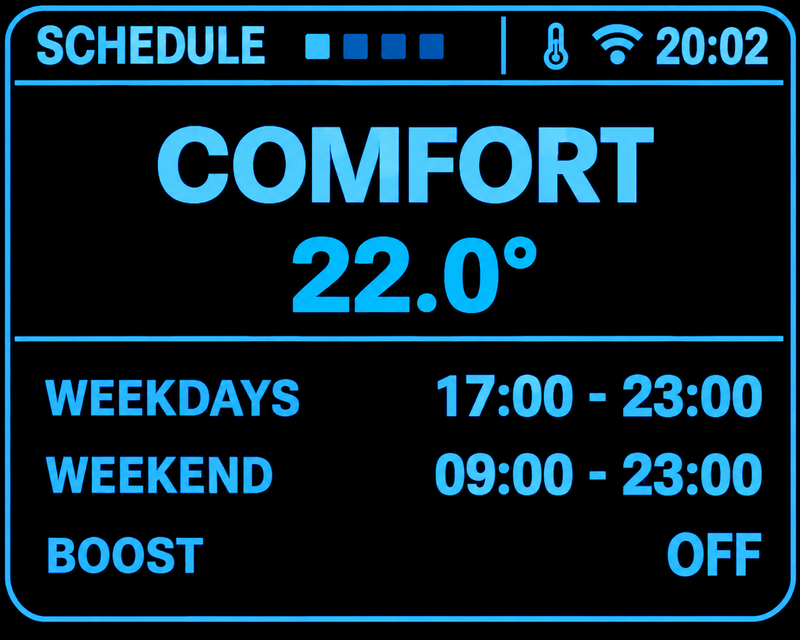
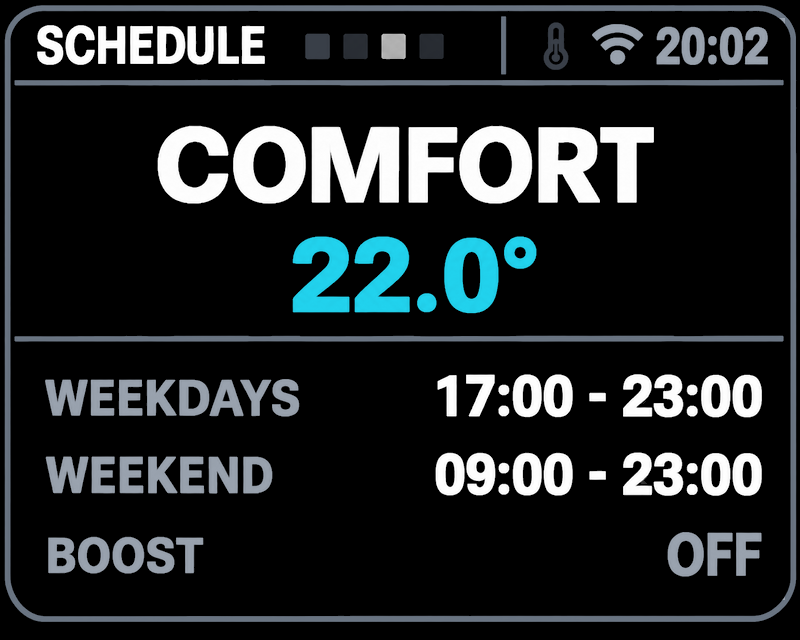
Recolor the remaining screens and point every link at them

Changed region(s): [[0.0, 0.0, 1.0, 1.0], [0.0625, 0.6875, 0.3438, 0.7812], [0.0625, 0.8125, 0.25, 0.9062]]

diff --git a/OpenthermThermostat/README.md b/OpenthermThermostat/README.md
@@ -229,7 +229,7 @@ nothing to save.
 
 #### Climate
 
-<img src="https://config.home-master.eu/OpenthermThermostat/Images/screens/screen-climate.png" alt="Climate page" width="420">
+<img src="https://config.home-master.eu/OpenthermThermostat/Images/screens/screen-climate.png?v=2" alt="Climate page" width="420">
 
 The page you use day to day.
 
@@ -253,7 +253,7 @@ comfort during the comfort window, eco outside it.
 
 #### Boiler
 
-<img src="https://config.home-master.eu/OpenthermThermostat/Images/screens/screen-boiler.png?v=0677c21" alt="Boiler page" width="420">
+<img src="https://config.home-master.eu/OpenthermThermostat/Images/screens/screen-boiler.png?v=2" alt="Boiler page" width="420">
 
 What the boiler itself reports.
 
@@ -274,7 +274,7 @@ What the boiler itself reports.
 
 #### Schedule
 
-<img src="https://config.home-master.eu/OpenthermThermostat/Images/screens/screen-schedule.png" alt="Schedule page" width="420">
+<img src="https://config.home-master.eu/OpenthermThermostat/Images/screens/screen-schedule.png?v=2" alt="Schedule page" width="420">
 
 - Which window is in force now, `COMFORT` or `ECO`, and its setpoint.
 - The weekday window and the weekend window, as `HH:MM - HH:MM`.
@@ -295,7 +295,7 @@ and end. The screen shows them so you can check them without a phone.
 
 #### System
 
-<img src="https://config.home-master.eu/OpenthermThermostat/Images/screens/screen-system.png" alt="System page" width="420">
+<img src="https://config.home-master.eu/OpenthermThermostat/Images/screens/screen-system.png?v=2" alt="System page" width="420">
 
 Diagnostics, for commissioning and for support calls.
 

diff --git a/OpenthermThermostat/esphome-devices/index.md b/OpenthermThermostat/esphome-devices/index.md
@@ -13,7 +13,7 @@ difficulty: 1
 
 ![HomeMaster Thermostat for OpenTherm](thermostat.jpg)
 
-![Climate page](screen-climate.png)
+![Climate page](screen-climate.png?v=2)
 
 ## Description
 
